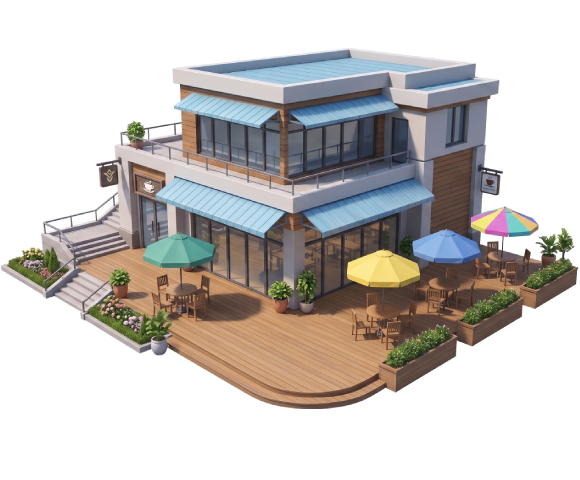
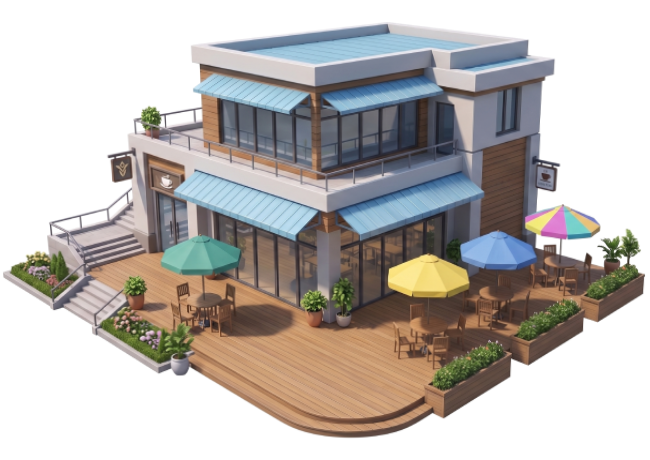
NPC 이미지 정렬 topCenter→bottomCenter(발 뜨는 현상 수정) + 한별·서윤 좌표 갱신 (v95)

diff --git a/lib/ui_plaza.dart b/lib/ui_plaza.dart
@@ -2441,8 +2441,8 @@ class _PlazaScreenState extends State<PlazaScreen> with SingleTickerProviderStat
                             sprites.add(MapEntry(0.663, _plazaPortal(worldW, worldH, sizeRef, 0.110, 0.663, 'portal_rank_fw.png', 0.30)));
                             sprites.add(MapEntry(0.405, _plazaPortal(worldW, worldH, sizeRef, 0.290, 0.405, 'portal_guild_fw.png', 0.28)));
                             sprites.add(MapEntry(0.256, _plazaPortal(worldW, worldH, sizeRef, 0.507, 0.256, 'portal_fishing_fw.png', 0.30)));
-                            sprites.add(MapEntry(0.361, _plazaPortal(worldW, worldH, sizeRef, 0.701, 0.361, 'portal_arena_fw.png', 0.30)));
-                            sprites.add(MapEntry(0.568, _plazaPortal(worldW, worldH, sizeRef, 0.895, 0.568, 'portal_shop_fw.png', 0.38)));
+                            sprites.add(MapEntry(0.370, _plazaPortal(worldW, worldH, sizeRef, 0.700, 0.370, 'portal_arena_fw.png', 0.30)));
+                            sprites.add(MapEntry(0.600, _plazaPortal(worldW, worldH, sizeRef, 0.910, 0.600, 'portal_shop_fw.png', 0.38)));
                             sprites.add(MapEntry(0.877, _plazaPortal(worldW, worldH, sizeRef, 0.500, 0.877, 'portal_quest_fw.png', 0.26)));
                           }
                           // 🧍 내 캐릭터 (탭 통과)
@@ -2532,12 +2532,12 @@ class _PlazaScreenState extends State<PlazaScreen> with SingleTickerProviderStat
                             widget.isSea ? 0.598 : 0.256, 'npc_fishing.png', 'npc_girl_intro.png', '나루', '🌀 낚시터',
                             () => _openNpcIntro('npc_fishing.png', 'fishing', '낚시터 이동', _openMinimap),
                             scale: 0.9),
-                        _standNpc(worldW, worldH, sizeRef, widget.isSea ? 0.834 : 0.701,
-                            widget.isSea ? 0.657 : 0.361, 'npc_arena.png', 'npc_girl_point.png', '한별', '⚔️ 아레나',
+                        _standNpc(worldW, worldH, sizeRef, widget.isSea ? 0.834 : 0.700,
+                            widget.isSea ? 0.657 : 0.370, 'npc_arena.png', 'npc_girl_point.png', '한별', '⚔️ 아레나',
                             _onHanbyeolTap,
                             scale: 0.82),
-                        _standNpc(worldW, worldH, sizeRef, widget.isSea ? 0.809 : 0.895,
-                            widget.isSea ? 0.945 : 0.568, 'npc_shop.png', 'npc_manager.png', '서윤', '🏪 상점',
+                        _standNpc(worldW, worldH, sizeRef, widget.isSea ? 0.809 : 0.910,
+                            widget.isSea ? 0.945 : 0.600, 'npc_shop.png', 'npc_manager.png', '서윤', '🏪 상점',
                             () => _openNpcIntro('npc_shop.png', 'shop', '상점 들어가기', _openStore),
                             scale: 1.1),
                         // 📋 일일퀘스트 매니저 '아라'
@@ -2839,10 +2839,10 @@ class _PlazaScreenState extends State<PlazaScreen> with SingleTickerProviderStat
               // 🌊 바다광장이면 '_sea' 변형 먼저 시도 → 없으면 기본 이미지
               child: Image.asset('assets/images/${widget.isSea ? 'npc_manager_quest_sea.png' : 'npc_manager_quest.png'}',
                   fit: BoxFit.contain,
-                  alignment: Alignment.topCenter,
+                  alignment: Alignment.bottomCenter,
                   errorBuilder: (a, b, c) => Image.asset('assets/images/npc_manager_quest.png',
                       fit: BoxFit.contain,
-                      alignment: Alignment.topCenter,
+                      alignment: Alignment.bottomCenter,
                       errorBuilder: (a2, b2, c2) => const SizedBox.shrink())),
             ),
           ],
@@ -2895,13 +2895,13 @@ class _PlazaScreenState extends State<PlazaScreen> with SingleTickerProviderStat
               // 🌊 바다광장이면 '_sea' 변형 먼저 시도 → 없으면 기본 이미지 → 그래도 없으면 fallback
               child: Image.asset('assets/images/${widget.isSea ? img.replaceFirst('.png', '_sea.png') : img}',
                   fit: BoxFit.contain,
-                  alignment: Alignment.topCenter,
+                  alignment: Alignment.bottomCenter,
                   errorBuilder: (a, b, c) => Image.asset('assets/images/$img',
                       fit: BoxFit.contain,
-                      alignment: Alignment.topCenter,
+                      alignment: Alignment.bottomCenter,
                       errorBuilder: (a1, b1, c1) => Image.asset('assets/images/$fallback',
                           fit: BoxFit.contain,
-                          alignment: Alignment.topCenter,
+                          alignment: Alignment.bottomCenter,
                           errorBuilder: (a2, b2, c2) => const SizedBox.shrink()))),
             ),
           ],

diff --git a/lib/app_version.dart b/lib/app_version.dart
@@ -13,7 +13,7 @@ import 'dart:html' as html;
 import 'package:flutter/material.dart';
 
 /// ⚠️ 배포마다 올리는 빌드 식별자 (web/appver.json 과 같은 값으로 유지)
-const String kBuildId = '20260701-94';
+const String kBuildId = '20260701-95';
 
 bool _updateChecked = false;
 